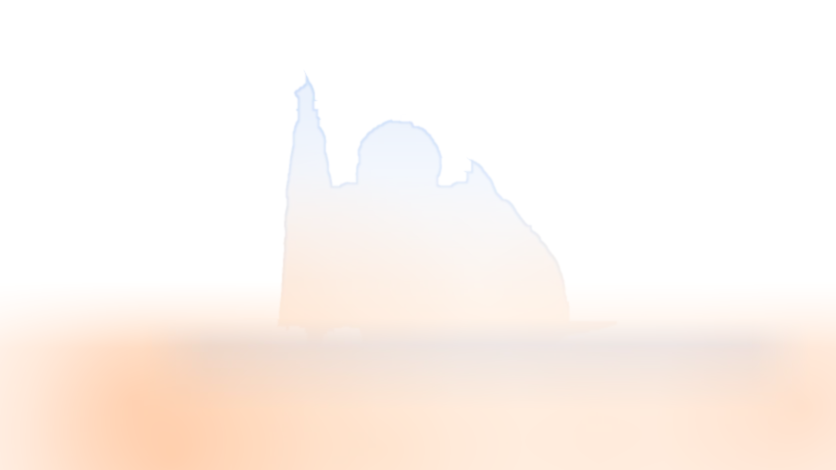
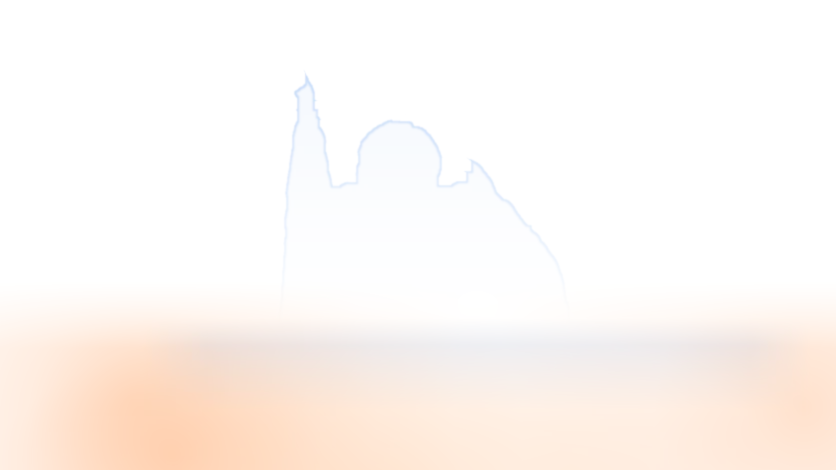
Ngắm tuyết: hai người chìm vào bóng khi tắt đèn; lấp lỗ mặt nạ; làm nhẹ cảnh cuối (ít hạt, giới hạn tốc độ vẽ, bỏ bụi vàng)
Claude-Session: https://claude.ai/code/session_018LWP6QAxse55v6Pm2E99MN

Changed region(s): [[0.311, 0.5362, 0.4976, 0.6851]]

diff --git a/src/scenes/SnowWatch.tsx b/src/scenes/SnowWatch.tsx
@@ -2,7 +2,6 @@ import { useEffect, useRef, useState } from 'react'
 import { snow as copy } from '../content/content'
 import { isLite, reducedMotion } from '../lib/device'
 import { weather } from '../lib/weather'
-import { Dust } from './Tree'
 import { LitSpot } from '../components/LitSpot'
 import { lights, useLights } from '../lib/lights'
 import { SNOW as L, LM } from './snowLayout'
@@ -21,11 +20,13 @@ function SnowFall({ active }: { active: boolean }) {
     ctx.scale(K, K)
     ctx.beginPath(); L.panes.forEach(([x, y, w, h]) => ctx.rect(x, y, w, h)); ctx.clip()
     if (!active) return
-    const n = isLite() ? 50 : 105
+    const n = isLite() ? 36 : 70
     const fl = Array.from({ length: n }, () => ({ x: Math.random() * L.w, y: Math.random() * L.h, z: Math.random() ** 1.6, ph: Math.random() * 6.28 }))
     let raf = 0, last = performance.now()
     const frame = (t: number) => {
-      const dt = Math.min(0.05, (t - last) / 1000); last = t
+      raf = requestAnimationFrame(frame)
+      if (t - last < 30) return // 30 khung hình/giây là đủ cho tuyết, nhẹ máy hơn
+      const dt = Math.min(0.08, (t - last) / 1000); last = t
       ctx.clearRect(0, 0, L.w, L.h)
       for (const f of fl) {
         f.y += (20 + f.z * 66) * dt
@@ -41,7 +42,6 @@ function SnowFall({ active }: { active: boolean }) {
         } else { ctx.fillStyle = '#fff'; ctx.beginPath(); ctx.arc(f.x, f.y, r, 0, 6.283); ctx.fill() }
       }
       ctx.globalAlpha = 1
-      raf = requestAnimationFrame(frame)
     }
     raf = requestAnimationFrame(frame)
     return () => cancelAnimationFrame(raf)
@@ -75,7 +75,7 @@ function Meteors({ active, fire }: { active: boolean; fire: { n: number; kind: K
     type M = { x: number; y: number; vx: number; vy: number; life: number; max: number; len: number; w: number; head: number; rgb: [number, number, number]; spark: number; delay: number }
     type S = { x: number; y: number; vx: number; vy: number; life: number; max: number; r: number; rgb: [number, number, number] }
     const ms: M[] = [], sp: S[] = []
-    let raf = 0, last = performance.now()
+    let raf = 0, last = performance.now(), drawn = false
     const dirOf = () => { // phần lớn bay xuống trái, đôi khi xuống phải
       const right = Math.random() < 0.28
       return right ? Math.PI * (0.1 + Math.random() * 0.1) : Math.PI * (0.78 + Math.random() * 0.1)
@@ -98,6 +98,8 @@ function Meteors({ active, fire }: { active: boolean; fire: { n: number; kind: K
     const frame = (t: number) => {
       const dt = Math.min(0.05, (t - last) / 1000); last = t
       while (pending.current.length) spawn(pending.current.shift()!)
+      if (!ms.length && !sp.length) { if (drawn) { ctx.clearRect(0, 0, L.w, L.h); drawn = false } raf = requestAnimationFrame(frame); return } // không có sao nào thì không vẽ gì
+      drawn = true
       ctx.clearRect(0, 0, L.w, L.h)
       for (let i = ms.length - 1; i >= 0; i--) {
         const m = ms[i]
@@ -186,7 +188,7 @@ function ClingSnow({ active }: { active: boolean }) {
     }
     d.filter = 'none'
     // ---- cụm tuyết nhỏ dính trên mặt kính ----
-    for (let i = 0; i < 280; i++) {
+    for (let i = 0; i < 170; i++) {
       const pi = Math.floor(rnd() * L.panes.length), [px, py, pw, ph] = L.panes[pi]
       const edge = rnd() < 0.5 // một nửa dính sát mép khung
       const x = px + 6 + (edge ? (rnd() < 0.5 ? rnd() * 34 : pw - 6 - rnd() * 34) : rnd() * (pw - 12))
@@ -209,10 +211,10 @@ function ClingSnow({ active }: { active: boolean }) {
     }
     draw(snowGrown)
     if (!active || reducedMotion() || snowGrown >= 1) { if (reducedMotion()) { snowGrown = 1; draw(1) } return }
-    let raf = 0, last = performance.now()
+    let raf = 0, last = performance.now(), lastDraw = 0
     const frame = (t: number) => {
-      const dt = Math.min(0.05, (t - last) / 1000); last = t
-      if (!document.hidden) { snowGrown = Math.min(1, snowGrown + dt / 45); draw(snowGrown) }
+      const dt = Math.min(0.05, (t - last) / 1000); last = t; void dt
+      if (!document.hidden && t - lastDraw > 100) { lastDraw = t; snowGrown = Math.min(1, snowGrown + 0.1 / 45); draw(snowGrown) } // vẽ lại 10 lần/giây là đủ cho chuyển động chậm này
       if (snowGrown < 1) raf = requestAnimationFrame(frame)
     }
     raf = requestAnimationFrame(frame)
@@ -258,7 +260,7 @@ function Fog({ active, wipeRef }: { active: boolean; wipeRef: React.MutableRefOb
       g.addColorStop(0, dark ? 'rgba(235,243,252,.16)' : 'rgba(40,60,95,.07)'); g.addColorStop(1, 'rgba(0,0,0,0)')
       tc.fillStyle = g; tc.fillRect(x - r, y - r, r * 2, r * 2)
     }
-    for (let i = 0; i < 2600; i++) { // hạt nước li ti
+    for (let i = 0; i < 1500; i++) { // hạt nước li ti
       const [x, y] = spot(1.5), r = 0.4 + rnd() * 1.1
       tc.fillStyle = `rgba(255,255,255,${0.07 + rnd() * 0.16})`
       tc.beginPath(); tc.arc(x, y, r, 0, 6.283); tc.fill()
@@ -275,7 +277,7 @@ function Fog({ active, wipeRef }: { active: boolean; wipeRef: React.MutableRefOb
       c.fillStyle = `rgba(255,255,255,${0.9 * k})`
       c.beginPath(); c.arc(x - r * 0.34, y - r * 0.38, Math.max(0.5, r * 0.26), 0, 6.283); c.fill()
     }
-    for (let i = 0; i < 240; i++) { const [x, y] = spot(1.7); bead(tc, x, y, 1.1 + rnd() * 2.2, 0.9) } // giọt tròn, nhiều ở phía dưới
+    for (let i = 0; i < 150; i++) { const [x, y] = spot(1.7); bead(tc, x, y, 1.1 + rnd() * 2.2, 0.9) } // giọt tròn, nhiều ở phía dưới
     for (let i = 0; i < 14; i++) { const [x, y] = spot(2.2); bead(tc, x, y, 3.2 + rnd() * 2.4, 1) }   // vài giọt lớn
     const base = tc.getImageData(0, 0, W, H)
     const out = ctx.createImageData(W, H)
@@ -311,13 +313,13 @@ function Fog({ active, wipeRef }: { active: boolean; wipeRef: React.MutableRefOb
       dirty = true
     }
     if (reducedMotion() || !active) { paint(); return }
-    let raf = 0, last = performance.now(), tFade = 0, tick = 0, nextDrip = last + 3500
+    let raf = 0, last = performance.now(), tFade = 0, tick = 0, nextDrip = last + 3500, lastPaint = 0
     const frame = (t: number) => {
       const dt = Math.min(0.05, (t - last) / 1000); last = t
-      if (t > nextDrip && drips.length < 3 && !document.hidden) {
+      if (t > nextDrip && drips.length < 2 && !document.hidden) {
         const [x, y] = spot(0.9)
         drips.push({ x, y: Math.min(y, 330 * K), dx: 0, v: (16 + rnd() * 18) * K, moving: true, t: 0.4 + rnd() * 0.8, len: 0, max: (110 + rnd() * 200) * K, ph: rnd() * 6 })
-        nextDrip = t + 6000 + Math.random() * 8000
+        nextDrip = t + 9000 + Math.random() * 11000
       }
       for (let i = drips.length - 1; i >= 0; i--) {
         const d = drips[i]
@@ -343,7 +345,7 @@ function Fog({ active, wipeRef }: { active: boolean; wipeRef: React.MutableRefOb
         }
         dirty = true
       }
-      if (dirty) { dirty = false; paint() }
+      if (dirty && t - lastPaint > 45) { dirty = false; lastPaint = t; paint() } // tối đa ~22 lần/giây
       raf = requestAnimationFrame(frame)
     }
     paint()
@@ -444,7 +446,6 @@ export default function SnowWatch({ active }: { active: boolean }) {
 
           <LitSpot src={L.poses[0].src} w={L.w} h={L.h} poly={L.lamp} on={lampHov} strength={0.5} />
           {L.flames.map(([x, y, k], i) => <i key={i} className="sw-flame" style={{ left: x - 260 * k, top: y - 260 * k, width: 520 * k, height: 520 * k, animationDelay: `-${i * 0.7}s` }} />)}
-          {active && <Dust w={L.w} h={L.h} />}
 
           <svg className="tr-hit" viewBox={`0 0 ${L.w} ${L.h}`}>
             <polygon className="cat-hs" points={L.lamp.map((q) => q.join(',')).join(' ')} tabIndex={0} role="button" aria-label={lightsOn ? 'Đèn bàn, đang sáng' : 'Đèn bàn, đang tắt'}

diff --git a/tools/snow/bake-light.py b/tools/snow/bake-light.py
@@ -7,7 +7,7 @@ W,H=836,470
 xs=(np.arange(W)+.5)*2; ys=(np.arange(H)+.5)*2
 X,Y=np.meshgrid(xs,ys)
 flames=[(345,912,1.0),(264,801,.7),(1608,815,1.0)]
-LIT=dict(x=760,y=900,rx=880,ry=560)
+LIT=dict(x=760,y=980,rx=800,ry=360)  # vùng sáng hẹp, chỉ phủ phần chăn, gối và mặt bàn gần nến; hai người ở phía trên chìm trong bóng tối
 panes=[(285,0,135,636),(480,0,818,636),(1360,0,262,636)]
 pane=np.zeros((H,W),np.float32)
 for x,y,w,h in panes: pane[int(y/2):int((y+h)/2), int(x/2):int((x+w)/2)]=1
@@ -26,10 +26,18 @@ def over(c1,a1,c2,a2):  # c2,a2 phía trên
     return c,a
 for n in ['1','2']:
     sil=cv2.imread(os.path.join(HERE,f'cut-{n}.png'),cv2.IMREAD_UNCHANGED)[...,3].astype(np.float32)/255
+    # lấp các lỗ bên trong hình cắt (phần khăn bị sót) để không có vùng sáng hình thoi giữa người
+    bw=(sil>0.5).astype(np.uint8)*255
+    cs,_=cv2.findContours(bw,cv2.RETR_EXTERNAL,cv2.CHAIN_APPROX_SIMPLE)
+    fill=np.zeros_like(bw); cv2.drawContours(fill,cs,-1,255,-1)
+    sil=np.maximum(sil,cv2.GaussianBlur(fill,(0,0),.8).astype(np.float32)/255)
+    # mặt nạ che tuyết/hơi nước phía sau người (ngược với hình cắt, cũng đã lấp lỗ)
+    hide=np.zeros((H,W,4),np.uint8); hide[...,3]=np.clip((1-sil)*255,0,255)
+    cv2.imwrite(A+f'snow-hide-{n}.png',hide,[cv2.IMWRITE_PNG_COMPRESSION,9])
     sil=cv2.erode(sil,np.ones((5,5),np.uint8))  # mặt nạ cắt nở ra vài px quanh người: thu về đúng mép thật, không còn quầng tối quanh đầu
     mask=sil+(1-sil)*notpane
-    # phòng tối .88; hai người nhẹ hơn (.62) vì mặt lưng quay về phía nến và đồ vật gần máy quay, nên còn thấy được sợi tóc và vân áo
-    D=F*(.88*(1-sil)*notpane+.62*sil)
+    # phòng tối .88; hai người gần như chìm hẳn vào bóng (.975), chỉ còn đường viền lạnh của ánh tuyết ngoài cửa sổ
+    D=F*(.88*(1-sil)*notpane+.975*sil)
     D=1-(1-D)*(1-patch)
     dark=np.zeros((H,W,4),np.uint8); dark[...,0]=9; dark[...,1]=4; dark[...,2]=2; dark[...,3]=np.clip(D*255,0,255)
     Image.fromarray(dark,'RGBA').save(A+f'snow-dark-{n}.webp',quality=80,method=6)
@@ -41,12 +49,10 @@ for n in ['1','2']:
         r=np.hypot(X-fx,Y-fy); a=np.interp(r,[0,300*k,700*k],[.26*k,.1*k,0]); cand.append(a)
     warm_c=np.array([255,140,60],np.float32)
     # lớp trên người: cool (dưới) -> ellipse -> nến
-    c,a=cool_c,cool_a
-    c,a=over(c,a,ell_c,ell_a)
-    for ca in cand: c,a=over(c,a,np.broadcast_to(warm_c,(H,W,3)).copy(),ca)
+    c,a=cool_c,cool_a*.45  # trên người chỉ còn ánh lạnh rất nhẹ từ cửa sổ, không có ánh nến
     # viền sáng lạnh: ánh tuyết ngoài cửa sổ chiếu vào mặt trước hai người, nên nhìn từ phía sau chỉ thấy một đường sáng mảnh ôm theo đỉnh đầu, tóc và vai (mạnh ở phía trên, mất dần xuống thân)
     e2=cv2.erode(sil,np.ones((5,5),np.uint8)); band=cv2.GaussianBlur(np.clip(sil-e2,0,1),(0,0),.8)  # một đường mảnh ngay trong mép thật
-    rim_a=np.clip(band*np.interp(Y,[160,420,660],[.42,.24,0]),0,1)
+    rim_a=np.clip(band*np.interp(Y,[160,420,660],[.55,.3,0]),0,1)
     rim_c=np.broadcast_to(np.array([150,190,245],np.float32),(H,W,3)).copy()
     c,a=over(c,a,rim_c,rim_a)
     fo=np.interp(Y,[560,696],[1,0]); a1=a*sil*fo; c1=c

diff --git a/HANDOFF.md b/HANDOFF.md
@@ -159,3 +159,7 @@ npx tsc -b        # kiểm tra kiểu
 - **Sao băng 5 kiểu** (`Meteors`, `KINDS` trong `SnowWatch.tsx`): trắng xanh (hay gặp), vàng bay chậm rắc tia lấp lánh, hai sao song song, sao chổi lớn xanh ngọc (hiếm), mưa sao nhỏ (vài vệt mảnh liên tiếp). Hướng phần lớn xuống trái, đôi khi xuống phải. Xem thử một kiểu: thêm `?meteor=gold` (classic, gold, twin, comet, shower) vào địa chỉ.
 - **Tuyết bám ngoài cửa** (`ClingSnow`): đụn tuyết tích trên bậu cửa phía ngoài (mép gồ ghề, dồn lên sát khung gỗ), tuyết dính dọc mép khung, hàng trăm cụm nhỏ dính trên kính (nhiều ở dưới và quanh mép). Dày dần trong ~45 giây đầu rồi đứng yên (không tốn tính toán nữa); mức dày nhớ giữa các lần vào cảnh. Thứ tự lớp: sao băng -> tuyết rơi -> tuyết bám -> hơi nước.
 - **Ánh sáng khi tắt đèn** (bake trong `tools/snow/bake-light.py`): hai người nhẹ hơn phòng (.62 so với .88; lưng quay về phía nến nên còn thấy sợi tóc, vân áo), mặt nạ thu về đúng mép thật (hết quầng tối quanh đầu), một đường sáng lạnh mảnh ngay trong mép (ánh tuyết ngoài cửa chiếu vào mặt trước họ, nhìn từ phía sau chỉ thấy viền), và dải ánh tuyết lạnh nhạt trên bậu cửa, gối và mặt chăn gần cửa sổ.
+
+### Cảnh ngắm tuyết: hai người chìm vào bóng + nhẹ máy hơn
+- Khi tắt đèn, hai người gần như chìm hẳn vào bóng (độ tối .975), chỉ còn đường viền lạnh mảnh của ánh tuyết ngoài cửa sổ; chỉ phần chăn, gối và mặt bàn gần nến mới sáng (vùng sáng `LIT` trong `tools/snow/bake-light.py` hẹp và thấp). Các lỗ trong hình cắt (phần khăn) đã được lấp, `snow-hide-*.png` cũng do script này sinh ra. Chạy lại script sau mỗi lần sửa.
+- Làm nhẹ cảnh cuối (Long muốn "nhẹ bớt"): tuyết rơi 70 hạt, vẽ 30 khung/giây; bỏ bụi vàng `Dust`; sao băng không vẽ gì khi không có sao nào; tuyết bám vẽ lại 10 lần/giây trong lúc dày lên rồi đứng yên; hơi nước chỉ vẽ lại tối đa ~22 lần/giây, ít giọt tròn, ít hạt li ti và tối đa 2 giọt chảy cùng lúc, thưa hơn.
